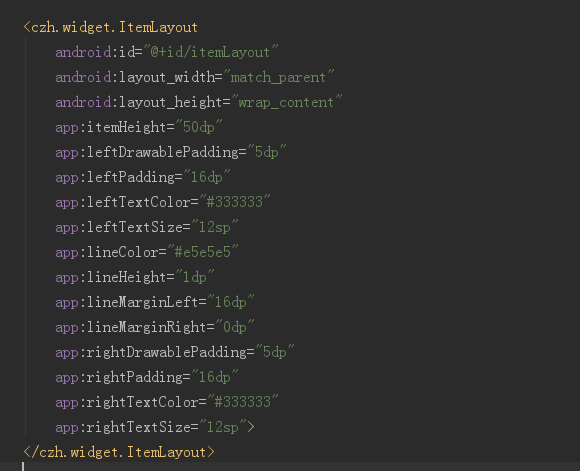
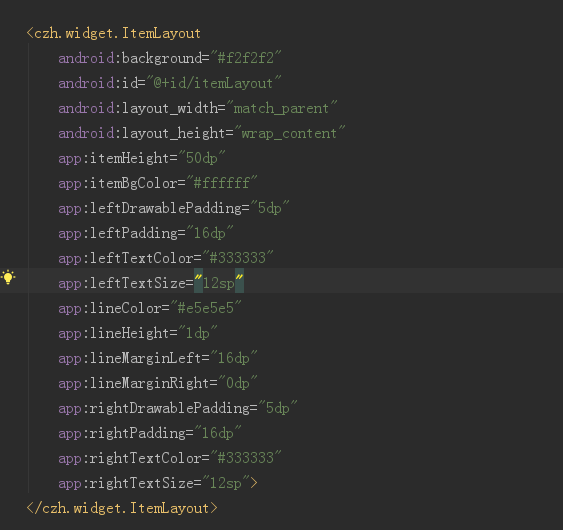
QQ:5741034

Changed region(s): [[0.0302, 0.0297, 0.6039, 0.9214], [0.0302, 0.9512, 0.3925, 1.0], [0.0, 0.5053, 0.0302, 0.535]]

diff --git a/lib/src/main/java/czh/widget/ItemLayout.kt b/lib/src/main/java/czh/widget/ItemLayout.kt
@@ -23,8 +23,9 @@ class ItemLayout : LinearLayout {
 
     var mData: List<ItemBean>? = null
     var itemHeight = 96
+    var itemBgColor = Color.parseColor("#ffffff")
 
-    var leftTextSize =  28f
+    var leftTextSize = 28f
     var leftTextColor = Color.parseColor("#333333")
     var leftPadding = 30
     var leftDrawablePadding = 10
@@ -55,6 +56,8 @@ class ItemLayout : LinearLayout {
                 val type = it.getIndex(index)
                 when (type) {
                     R.styleable.ItemLayout_itemHeight -> itemHeight = it.getDimensionPixelOffset(type, 48)
+                    R.styleable.ItemLayout_itemBgColor -> itemBgColor = it.getColor(type, Color.parseColor("#ffffff"))
+
                     R.styleable.ItemLayout_leftTextSize -> leftTextSize = it.getDimension(type, 28f)
                     R.styleable.ItemLayout_leftTextColor -> leftTextColor = it.getColor(type, Color.parseColor("#333333"))
                     R.styleable.ItemLayout_leftPadding -> leftPadding = it.getDimensionPixelOffset(type, 0)
@@ -104,6 +107,7 @@ class ItemLayout : LinearLayout {
     fun create() {
         mData?.forEachIndexed { position, it ->
             val view = LayoutInflater.from(mContext).inflate(R.layout.item, null).apply {
+                itemLayout.setBackgroundColor(itemBgColor)
                 itemLayout.layoutParams = RelativeLayout.LayoutParams(ViewGroup.LayoutParams.MATCH_PARENT, itemHeight)
                 leftTextView.apply {
                     textSize = px2dip(mContext, leftTextSize).toFloat()
@@ -132,9 +136,13 @@ class ItemLayout : LinearLayout {
             addView(view)
             mViewList.add(view)
 
-            createLineView(it.height).let {
+            createLineView(it.height,it.marginBottom).let {
                 addView(it)
                 mLineViewList.add(it)
+            }
+
+            it.marginBottom?.let {
+                addView(createLineView(lineHeight))
             }
 
             view.setOnClickListener {
@@ -148,16 +156,19 @@ class ItemLayout : LinearLayout {
      * @param height
      * @return View
      */
-    private fun createLineView(height: Int? = null): View {
+    private fun createLineView(height: Int? = null, marginBottom: Int? = null): View {
         return View(mContext).apply {
+            setBackgroundColor(lineColor)
             val lp = LinearLayout.LayoutParams(ViewGroup.LayoutParams.MATCH_PARENT, height
                     ?: lineHeight)
-            if (height == null) {
+            if (height == null&&marginBottom==null) {
                 lp.leftMargin = lineMarginLeft
                 lp.rightMargin = lineMarginRight
             }
+            marginBottom?.let {
+                lp.bottomMargin = it
+            }
             layoutParams = lp
-            setBackgroundColor(lineColor)
         }
     }
 

diff --git a/app/src/main/java/czh/itemlayout/MainActivity.kt b/app/src/main/java/czh/itemlayout/MainActivity.kt
@@ -16,7 +16,9 @@ class MainActivity : AppCompatActivity() {
         setContentView(R.layout.activity_main)
         val items = arrayListOf<ItemBean>()
         items.add(ItemBean(R.mipmap.ic_launcher, "测试"))
-        items.add(ItemBean(R.mipmap.ic_launcher, "测试", "测试"))
+        items.add(ItemBean(R.mipmap.ic_launcher, "测试", "测试",marginBottom = 20))
+        items.add(ItemBean(R.mipmap.ic_launcher, "测试", "测试",marginBottom = 20))
+        items.add(ItemBean(R.mipmap.ic_launcher, "测试", "测试",marginBottom = 20))
         items.add(ItemBean(R.mipmap.ic_launcher, "测试", height = 30))
         items.add(ItemBean(R.mipmap.ic_launcher, "测试"))
         items.add(ItemBean(R.mipmap.ic_launcher, "测试"))
@@ -27,6 +29,7 @@ class MainActivity : AppCompatActivity() {
             defaultIcon=R.mipmap.ico_next
             //item高度
             itemHeight = resources.getDimensionPixelOffset(R.dimen.x98)
+            itemBgColor=Color.parseColor("#ffffff")
             //左边TextView
             leftTextColor = Color.parseColor("#333333")
             leftTextSize = resources.getDimension(R.dimen.x24)
@@ -38,7 +41,7 @@ class MainActivity : AppCompatActivity() {
             rightPadding = 30
             rightDrawablePadding = 10
             //底部分割线
-            lineColor = Color.parseColor("#e5e5e5")
+            lineColor = Color.parseColor("#666666")
             lineHeight = 1
             lineMarginLeft = 30
 //            lineMarginRight=0

diff --git a/lib/src/main/java/czh/widget/ItemBean.kt b/lib/src/main/java/czh/widget/ItemBean.kt
@@ -4,5 +4,6 @@ data class ItemBean(
         var leftIcon: Int? = null,
         var leftText: String,
         var rightText: String? = "",
-        var height: Int? = null
+        var height: Int? = null,
+        var marginBottom: Int? = null
 )

diff --git a/README.md b/README.md
@@ -13,15 +13,17 @@ repositories {
   google()
 }
 dependencies {
-  implementation 'com.github.czh235285:FastKotlin:1.4.2'
+  implementation 'com.github.czh235285:ItemLayout:1.0.1'
 }
 
 
 ```
 ## 介绍
 
-
-
+* 工作中常见的通用布局，比如QQ设置界面，链式调用。
+* 对外提供了方法可以获取指定的item，偶尔遇到根据type会隐藏item的时候可用。
+* item点击事件
+* 动态修改指定item文本
 
 
 ## xml中
